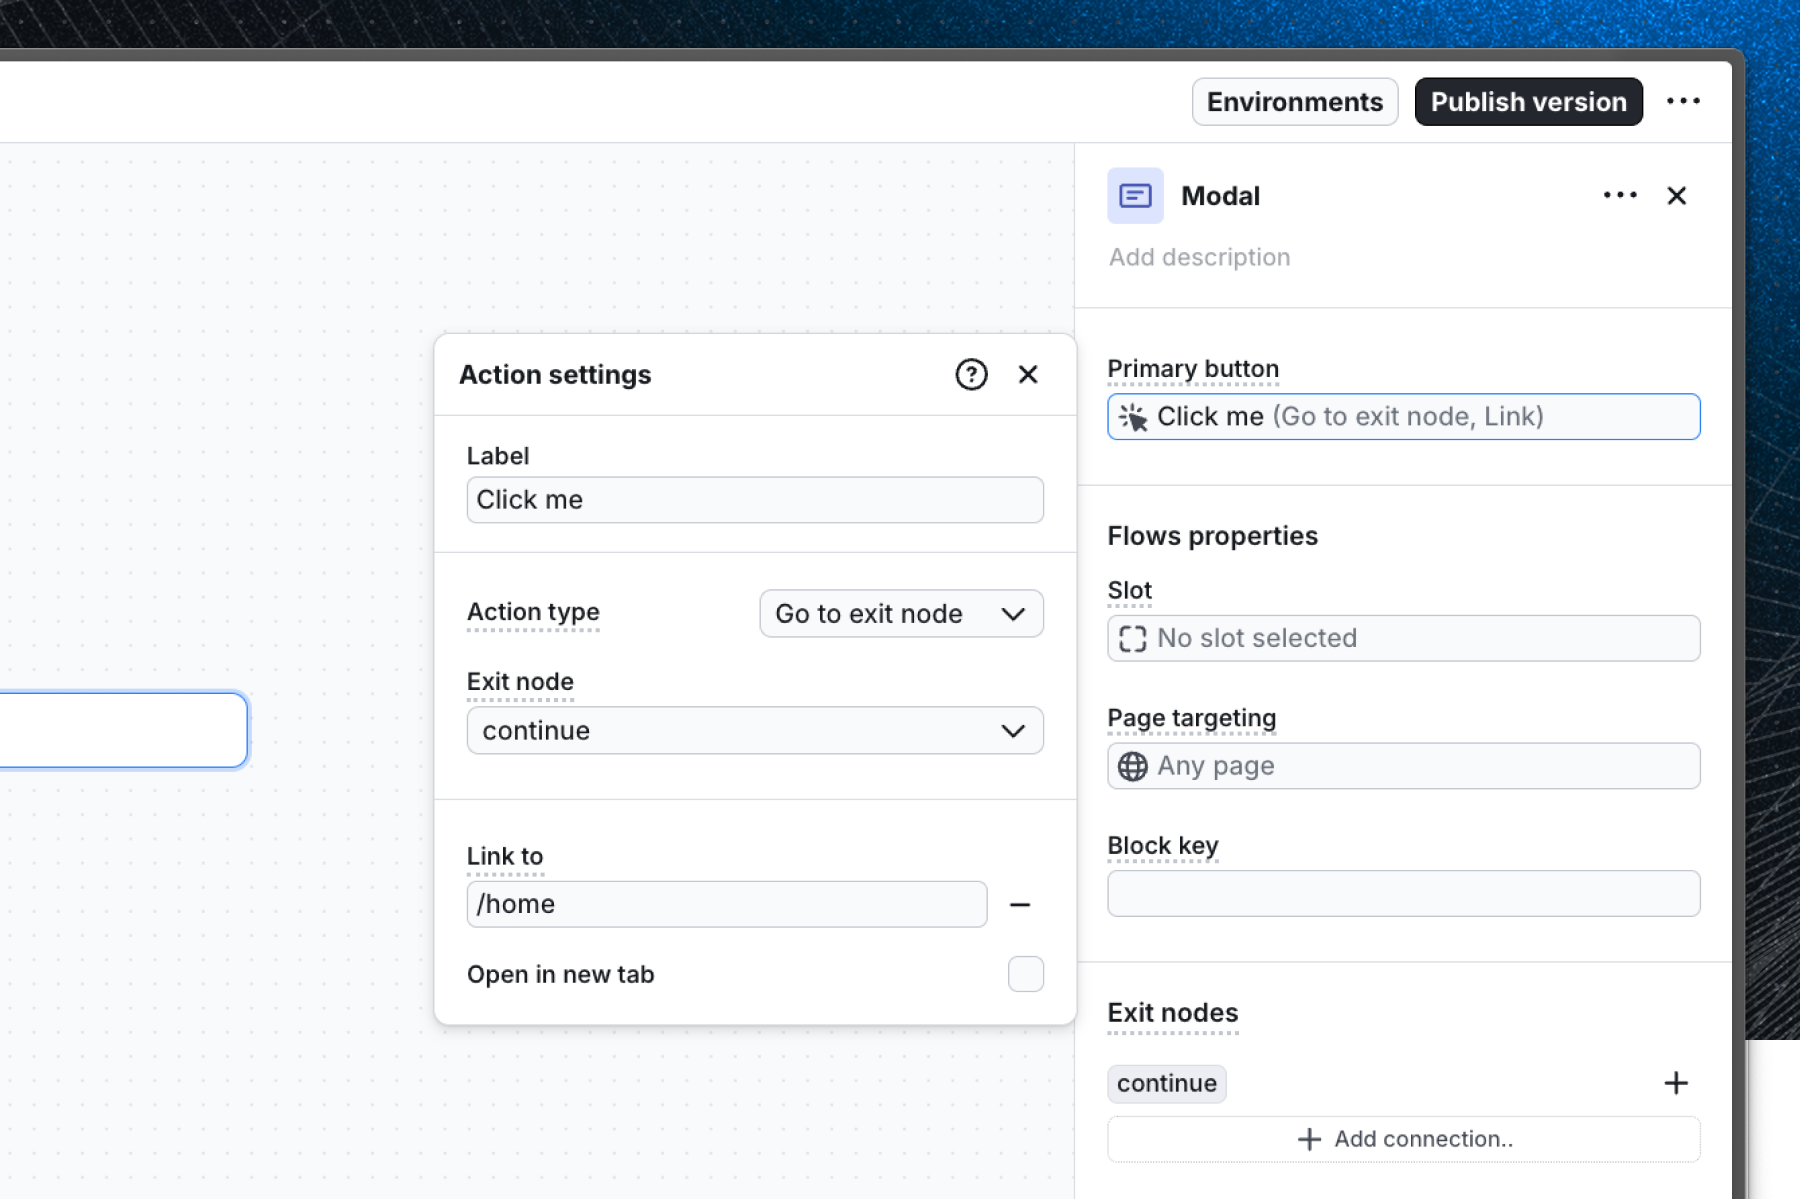
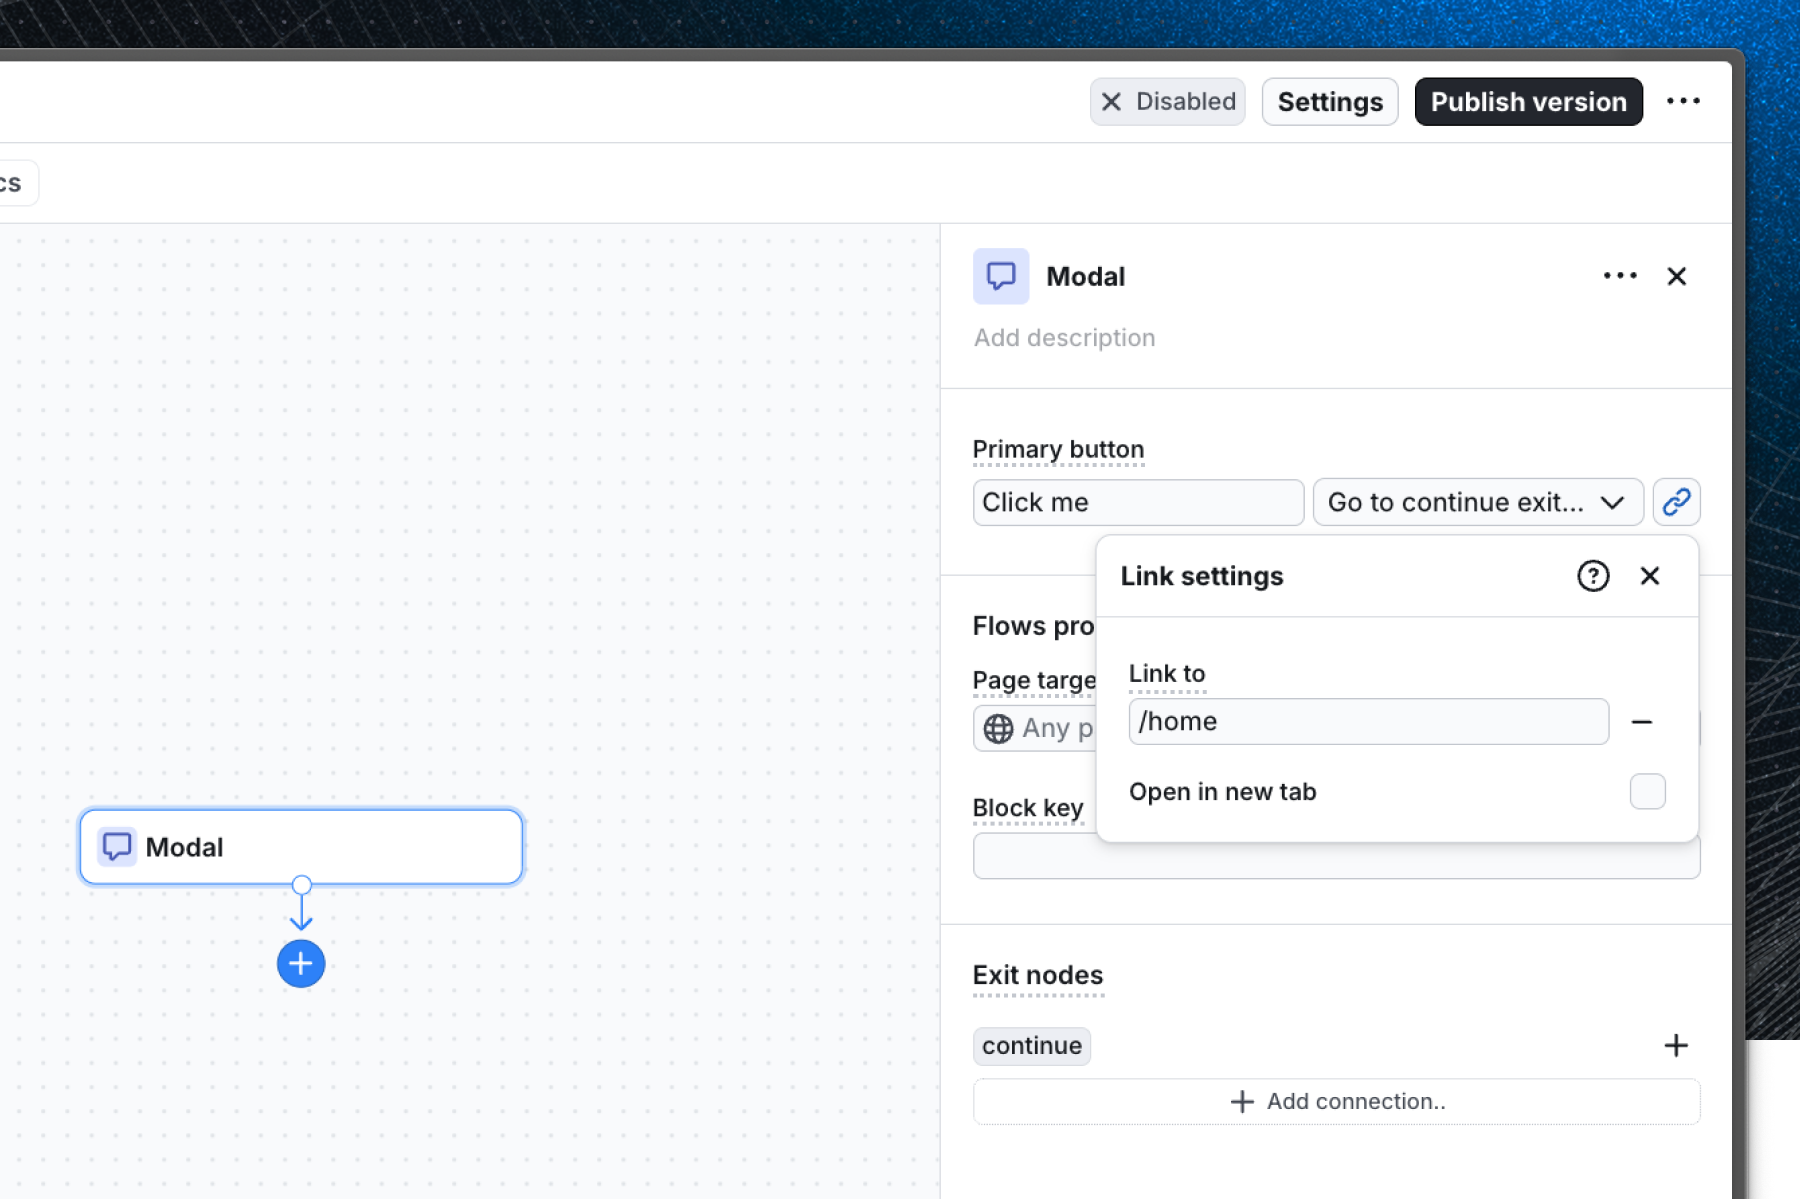
feat(app): make action input inline (#1652)
* feat(app): make action input inline

* fixes and tests

diff --git a/packages/ui/src/select/select.tsx b/packages/ui/src/select/select.tsx
@@ -110,7 +110,11 @@ function SelectInner<T extends string>({
           size={size}
           variant="field"
         >
-          {currentOption?.label ?? currentOption?.value ?? placeholder}
+          <span
+            className={css({ overflow: "hidden", textOverflow: "ellipsis", whiteSpace: "nowrap" })}
+          >
+            {currentOption?.label ?? currentOption?.value ?? placeholder}
+          </span>
         </Button>
       </RadixSelect.Trigger>
 
